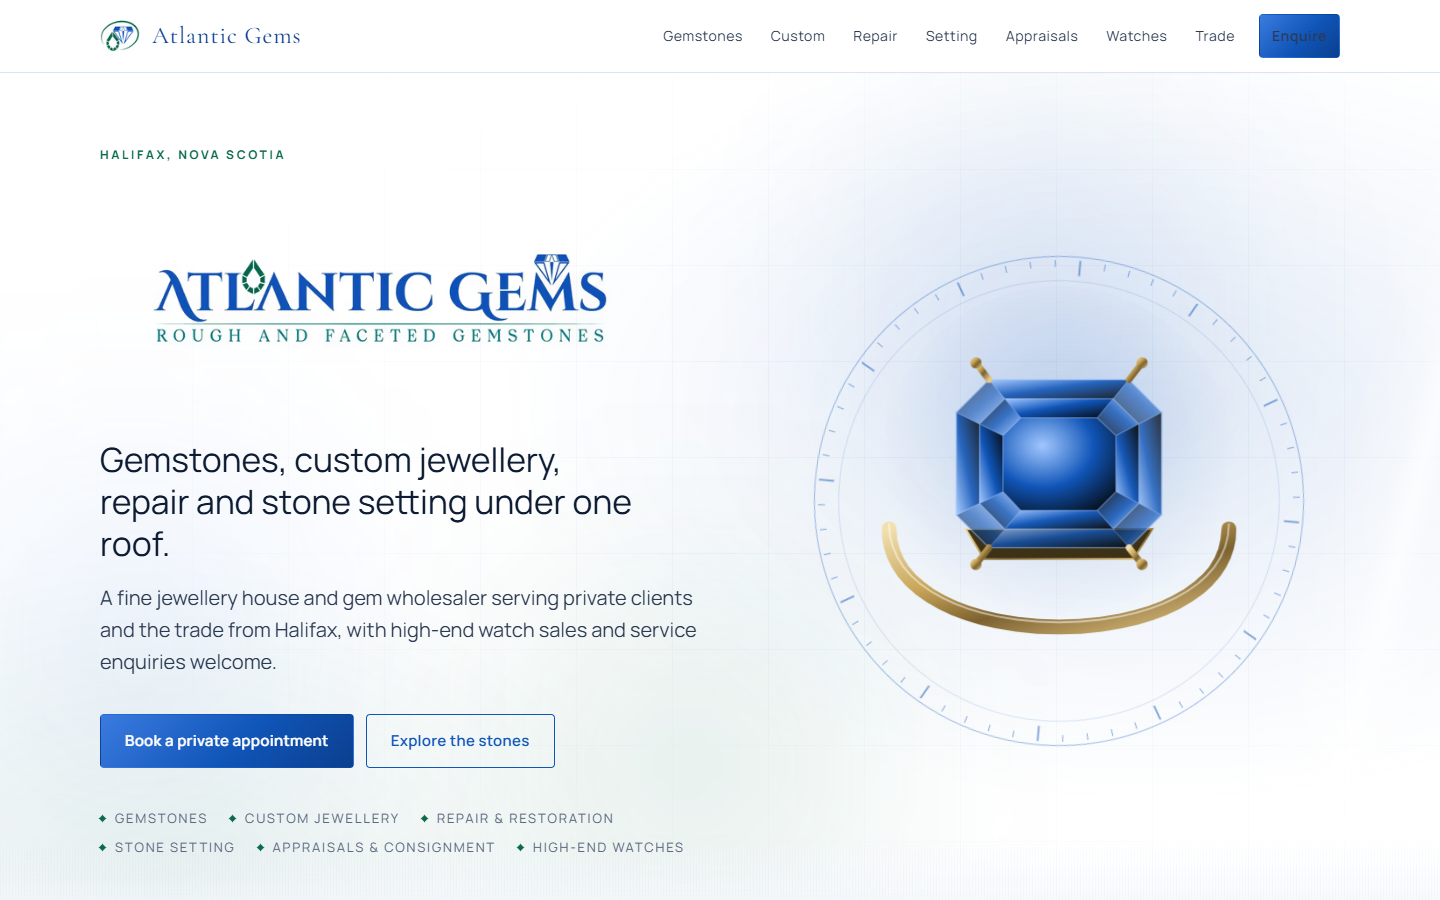
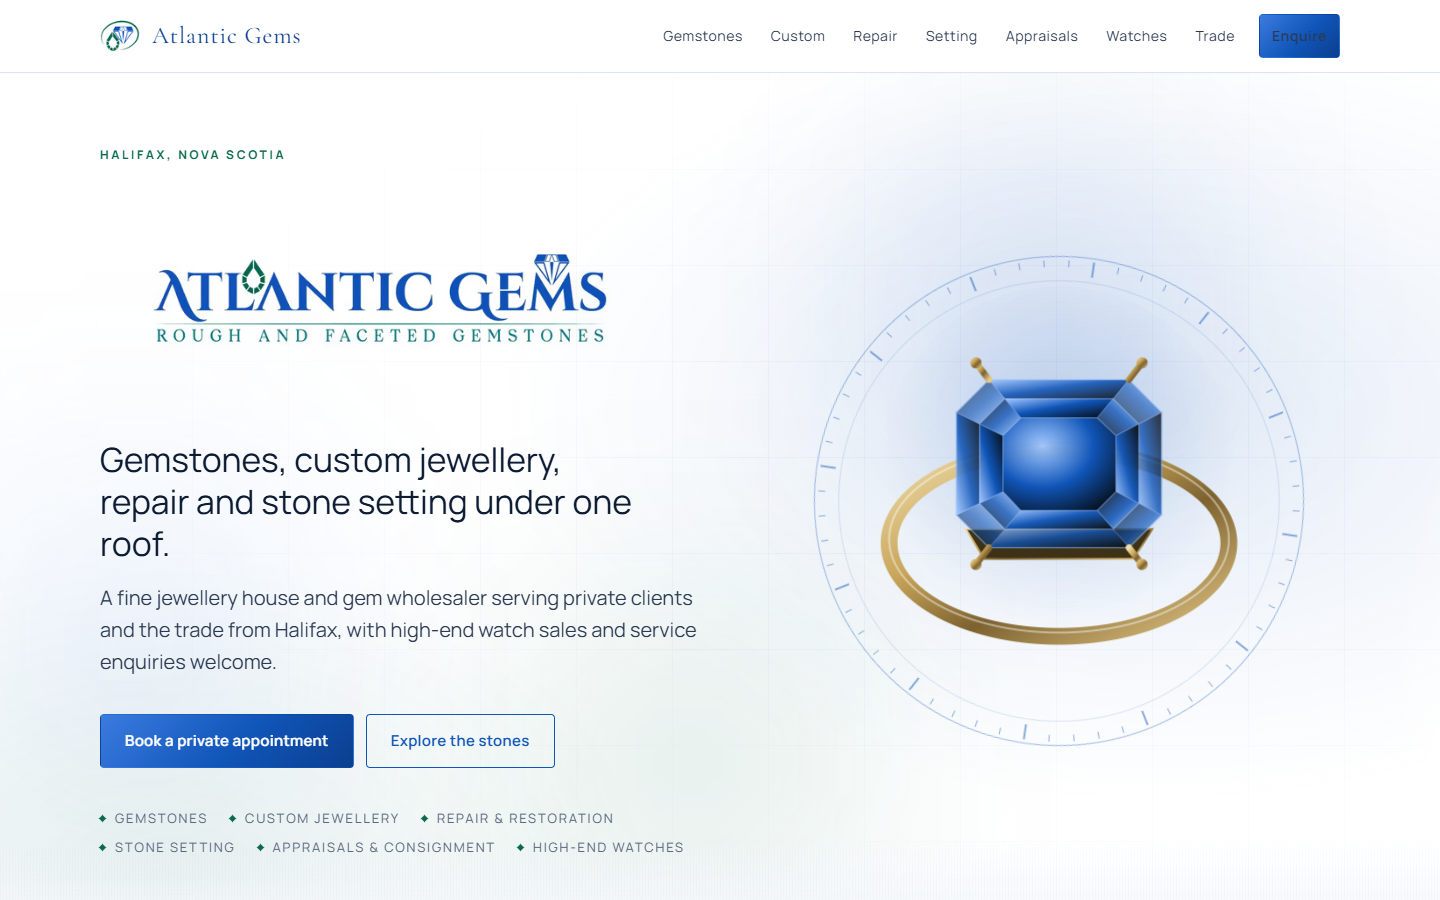
Hero emblem: replace shank arc with a full ring band behind the stone
The lone arc read as a floating crescent. A complete band, hidden behind
the stone on its far side, reads as the stone set on a ring.

Claude-Session: https://claude.ai/code/session_01Hx55FqJULfo6Dx64isTGtF

Changed region(s): [[0.5938, 0.4978, 0.875, 0.7156], [0.7812, 0.4978, 0.8438, 0.56]]

diff --git a/clean/components/Hero.tsx b/clean/components/Hero.tsx
@@ -59,22 +59,25 @@ function HouseEmblem() {
         })}
       </g>
 
-      {/* Ring shank */}
-      <path
+      {/* Ring band, seen from above and in front; the stone hides the far side */}
+      <ellipse
         className="ring-metal"
-        d="M 118 330 C 118 470, 482 470, 482 330"
+        cx="300"
+        cy="345"
+        rx="182"
+        ry="100"
         fill="none"
-        strokeWidth="16"
-        strokeLinecap="round"
+        strokeWidth="18"
       />
-      <path
-        d="M 118 330 C 118 470, 482 470, 482 330"
+      <ellipse
+        cx="300"
+        cy="341"
+        rx="182"
+        ry="100"
         fill="none"
         stroke="#fff"
-        strokeOpacity="0.5"
+        strokeOpacity="0.45"
         strokeWidth="2"
-        strokeLinecap="round"
-        transform="translate(0,-5)"
       />
 
       {/* Seat beneath the stone */}
